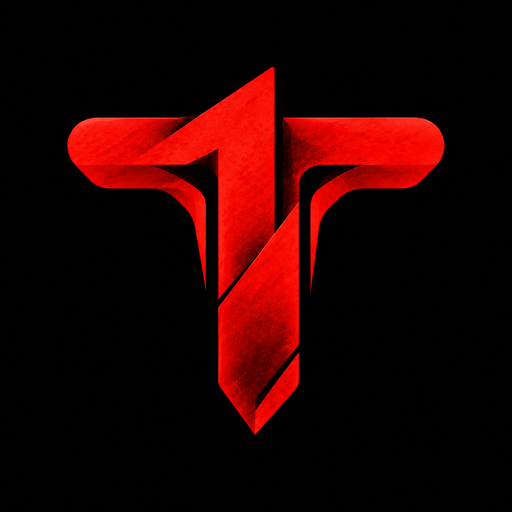
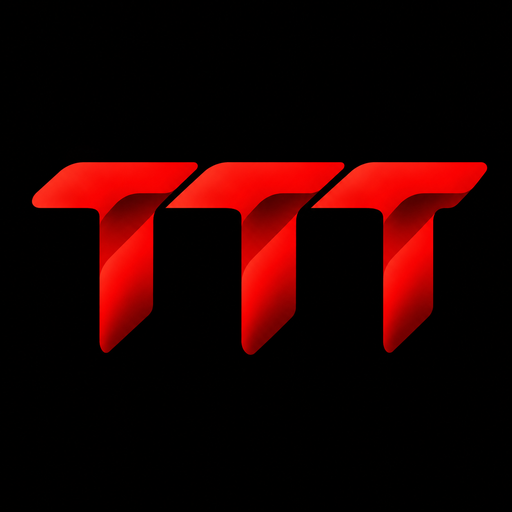
style: 앱 로고를 3D 리본 느낌의 "TTT" 3글자 디자인으로 교체 (#721)
단일 T 글자 로고에서, 입체적인 접힌 리본 느낌의 빨간 "TTT" 3글자
로고로 교체. 아이콘 3종(icon-192/icon-512/apple-touch-icon) +
iOS 자체 스플래시 10종 전부 동일한 비율(26%)·중앙 배치로 재생성.
sw.js 캐시 버전도 올림.

Claude-Session: https://claude.ai/code/session_01TNoGCWRQtXcfdnQwZ6HvCX

Changed region(s): [[0.0625, 0.125, 0.9688, 0.8438]]

diff --git a/index.html b/index.html
@@ -11303,7 +11303,7 @@ const settingsHeaderName = document.getElementById("settingsHeaderName");
 const settingsHeaderSub = document.getElementById("settingsHeaderSub");
 
 /* ✅ 앱 버전 정의 — 의미 있는 수정/배포마다 올림(설정 화면에서 "최신 버전 받았는지" 확인용) */
-const APP_VERSION = "0.9.257";
+const APP_VERSION = "0.9.258";
 const appVersionDisplay = document.getElementById("appVersionDisplay");
 if (appVersionDisplay) {
   appVersionDisplay.textContent = APP_VERSION;

diff --git a/sw.js b/sw.js
@@ -1,4 +1,4 @@
-const CACHE = "mf-v27"; // 🔥 로고 디자인을 각진/스플릿 스타일의 새 T 로고로 교체 — 아이콘/스플래시 전부 재생성해서 캐시 이름을 다시 올려 새로 받아오게 함
+const CACHE = "mf-v28"; // 🔥 로고 디자인을 3D 리본 느낌의 "TTT" 3글자 로고로 교체 — 아이콘/스플래시 전부 재생성해서 캐시 이름을 다시 올려 새로 받아오게 함
 const ASSETS = [
   "/",
   "/index.html",
